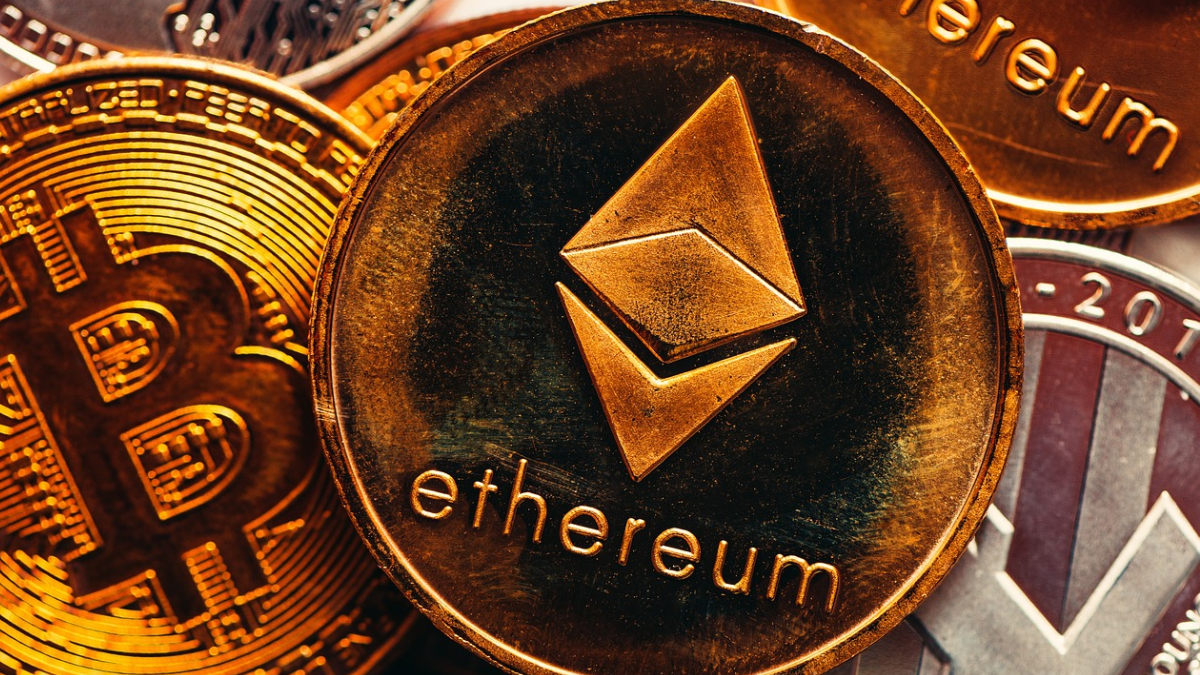
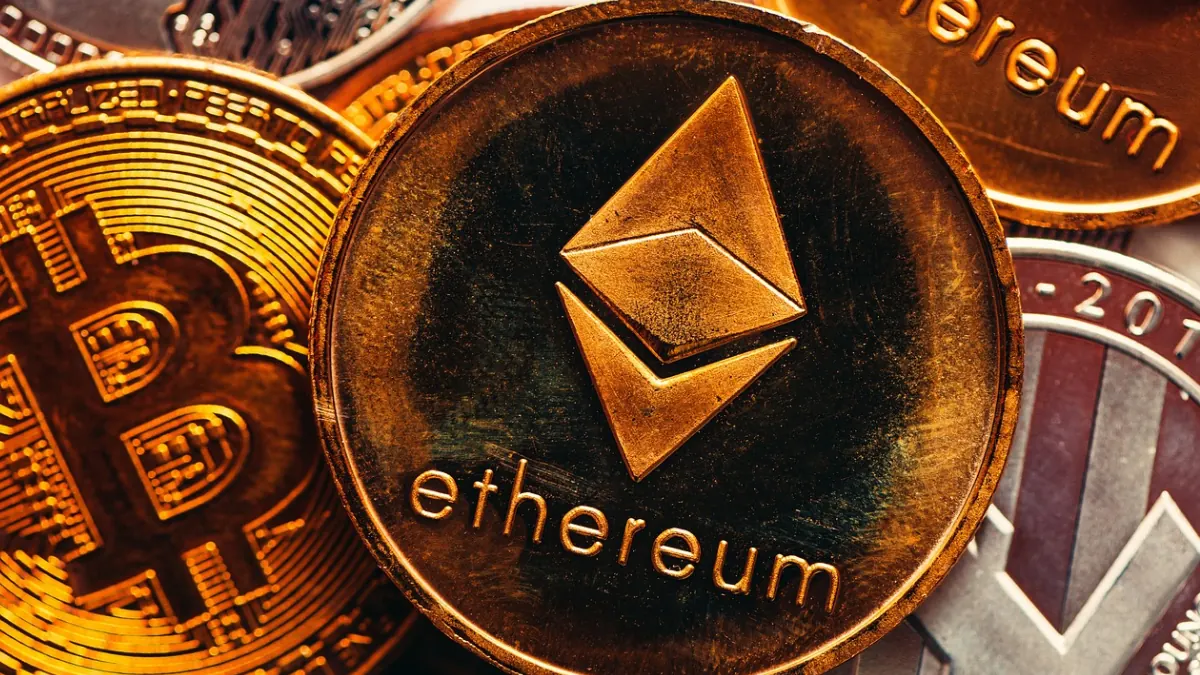
perf(imagens): comprime fotos e adiciona carregamento leve em todas as imagens
- dio-mnt-cryptocurrency 1,3 MB -> 150 KB; fotos novas > 90 KB reencodadas (q76); profile.jpg (só JSON-LD) 450 -> 51 KB; capa do blog em WebP (245 -> 123 KB)
- trackImageLoading marca <img> com data-ld/data-err (um listener para o site todo)
- img-load.css: brilho suave enquanto carrega e tile discreto quando falha, com movimento reduzido respeitado
- testes do listener

Claude-Session: https://claude.ai/code/session_01Dw2zZyGtss4gBD31k1Z556

diff --git a/src/lib/imageLoad.test.ts b/src/lib/imageLoad.test.ts
@@ -1,0 +1,58 @@
+import { afterEach, describe, expect, it } from "vitest";
+import { trackImageLoading } from "./imageLoad";
+
+let stop: (() => void) | undefined;
+afterEach(() => {
+  stop?.();
+  document.body.innerHTML = "";
+});
+
+const addImg = (src = "x.webp") => {
+  const img = document.createElement("img");
+  img.setAttribute("src", src);
+  document.body.appendChild(img);
+  return img;
+};
+
+describe("trackImageLoading", () => {
+  it("marks a picture as loaded when it fires load, and clears the failed mark", () => {
+    stop = trackImageLoading();
+    const img = addImg();
+    img.dispatchEvent(new Event("error"));
+    expect(img.hasAttribute("data-err")).toBe(true);
+    img.dispatchEvent(new Event("load"));
+    expect(img.hasAttribute("data-ld")).toBe(true);
+    expect(img.hasAttribute("data-err")).toBe(false);
+  });
+
+  it("marks a picture as failed when it fires error", () => {
+    stop = trackImageLoading();
+    const img = addImg();
+    img.dispatchEvent(new Event("error"));
+    expect(img.hasAttribute("data-err")).toBe(true);
+    expect(img.hasAttribute("data-ld")).toBe(false);
+  });
+
+  it("settles pictures that were already done before it started", () => {
+    const done = addImg("a.webp");
+    const broken = addImg("b.webp");
+    const pending = addImg("c.webp");
+    Object.defineProperty(done, "complete", { value: true });
+    Object.defineProperty(done, "naturalWidth", { value: 800 });
+    Object.defineProperty(broken, "complete", { value: true });
+    Object.defineProperty(broken, "naturalWidth", { value: 0 });
+    Object.defineProperty(pending, "complete", { value: false });
+    stop = trackImageLoading();
+    expect(done.hasAttribute("data-ld")).toBe(true);
+    expect(broken.hasAttribute("data-err")).toBe(true);
+    expect(pending.hasAttribute("data-ld") || pending.hasAttribute("data-err")).toBe(false);
+  });
+
+  it("stops listening once the cleanup runs", () => {
+    stop = trackImageLoading();
+    stop();
+    const img = addImg();
+    img.dispatchEvent(new Event("load"));
+    expect(img.hasAttribute("data-ld")).toBe(false);
+  });
+});

diff --git a/src/lib/imageLoad.ts b/src/lib/imageLoad.ts
@@ -1,0 +1,27 @@
+/**
+ * Marks every <img> of the page as loaded (`data-ld`) or failed (`data-err`), so CSS (styles/img-load.css) can show a
+ * light shimmer while a picture is on its way and a quiet tile when it never arrives -- one listener for the whole
+ * site instead of a wrapper around each <img>. `load` and `error` do not bubble, hence the capture phase.
+ */
+export function trackImageLoading(root: Document = document): () => void {
+  const settle = (img: HTMLImageElement, ok: boolean) => {
+    img.toggleAttribute('data-ld', ok);
+    img.toggleAttribute('data-err', !ok);
+  };
+  const onLoad = (event: Event) => {
+    if (event.target instanceof HTMLImageElement) settle(event.target, true);
+  };
+  const onError = (event: Event) => {
+    if (event.target instanceof HTMLImageElement) settle(event.target, false);
+  };
+  root.addEventListener('load', onLoad, true);
+  root.addEventListener('error', onError, true);
+  // pictures that finished before this ran (a cached one, or one in the prerendered HTML)
+  root.querySelectorAll('img').forEach((img) => {
+    if (img.getAttribute('src') && img.complete) settle(img, img.naturalWidth > 0);
+  });
+  return () => {
+    root.removeEventListener('load', onLoad, true);
+    root.removeEventListener('error', onError, true);
+  };
+}

diff --git a/src/styles/img-load.css b/src/styles/img-load.css
@@ -1,0 +1,24 @@
+/* Pictures on their way: the site's shimmer, light, behind the <img> until it settles (lib/imageLoad.ts sets data-ld / data-err). */
+@keyframes img-sweep {
+  from { background-position: 160% 0, 0 0; }
+  to { background-position: -60% 0, 0 0; }
+}
+
+:is(.mp-img img, .bf img, .thumb-shot img, .nc-img img, .fan-img img, .dk-img, .about-ph, .dlg-img):not([data-ld], [data-err]) {
+  background: linear-gradient(100deg, transparent 30%, rgba(255, 255, 255, 0.16) 50%, transparent 70%) 160% 0 / 200% 100% no-repeat, #1a1a22;
+}
+/* the dialog's picture already has its own entrance animation; the others get the sweep */
+:is(.mp-img img, .bf img, .thumb-shot img, .nc-img img, .dk-img, .about-ph):not([data-ld], [data-err]) {
+  animation: img-sweep 1.4s ease-in-out infinite;
+}
+
+/* Failed: a quiet tile instead of a hole, the same tone as the shimmer's base. */
+:is(.mp-img img, .bf img, .thumb-shot img, .nc-img img, .fan-img img, .dk-img, .about-ph, .dlg-img)[data-err] {
+  background: #1a1a22;
+}
+
+@media (prefers-reduced-motion: reduce) {
+  :is(.mp-img img, .bf img, .thumb-shot img, .nc-img img, .dk-img, .about-ph):not([data-ld], [data-err]) {
+    animation: none;
+  }
+}

diff --git a/src/main.tsx b/src/main.tsx
@@ -3,6 +3,7 @@ import App from './App.tsx'
 import { initWebVitals } from './lib/vitals'
 import { decodeImage, dismissBootLoader } from './lib/bootLoader'
 import { loadUmami } from './lib/track'
+import { trackImageLoading } from './lib/imageLoad'
 import { savedHue } from './contexts/ThemeContext'
 import '@fontsource-variable/geist'
 import '@fontsource-variable/geist-mono'
@@ -11,7 +12,9 @@ import './styles/v2.css'
 import './styles/hero-cards.css'
 import './styles/blog.css'
 import './styles/more.css'
+import './styles/img-load.css'
 
+trackImageLoading();
 createRoot(document.getElementById("root")!).render(<App />);
 initWebVitals();
 // Umami only where the build is configured for it (the Cloudflare deploy, see .github/workflows/cloudflare.yml).

diff --git a/src/content/posts/2026-10-15-ai-memory-memoria-do-projeto.en.md b/src/content/posts/2026-10-15-ai-memory-memoria-do-projeto.en.md
@@ -13,7 +13,7 @@ Fabio Akita was on Flow and talked about this trap. If you program with AI, you 
 probably noticed it already: every provider tries to lock you into its own little
 pen. ChatGPT's memory lives at OpenAI; Projects live at Anthropic.
 
-![Cover of the Flow episode with Fabio Akita](/blog/ai-memory-memoria-do-projeto/capa.jpg)
+![Cover of the Flow episode with Fabio Akita](/blog/ai-memory-memoria-do-projeto/capa.webp)
 
 ## The cost of switching models
 

diff --git a/src/content/posts/2026-10-15-ai-memory-memoria-do-projeto.md b/src/content/posts/2026-10-15-ai-memory-memoria-do-projeto.md
@@ -12,7 +12,7 @@ Fabio Akita esteve no Flow e falou sobre essa armadilha. Se você programa com I
 provavelmente já percebeu: cada provedor tenta te prender no próprio cercadinho.
 A memória do ChatGPT fica na OpenAI; os Projects, na Anthropic.
 
-![Capa do episódio do Flow com Fabio Akita](/blog/ai-memory-memoria-do-projeto/capa.jpg)
+![Capa do episódio do Flow com Fabio Akita](/blog/ai-memory-memoria-do-projeto/capa.webp)
 
 ## O custo de trocar de modelo
 
